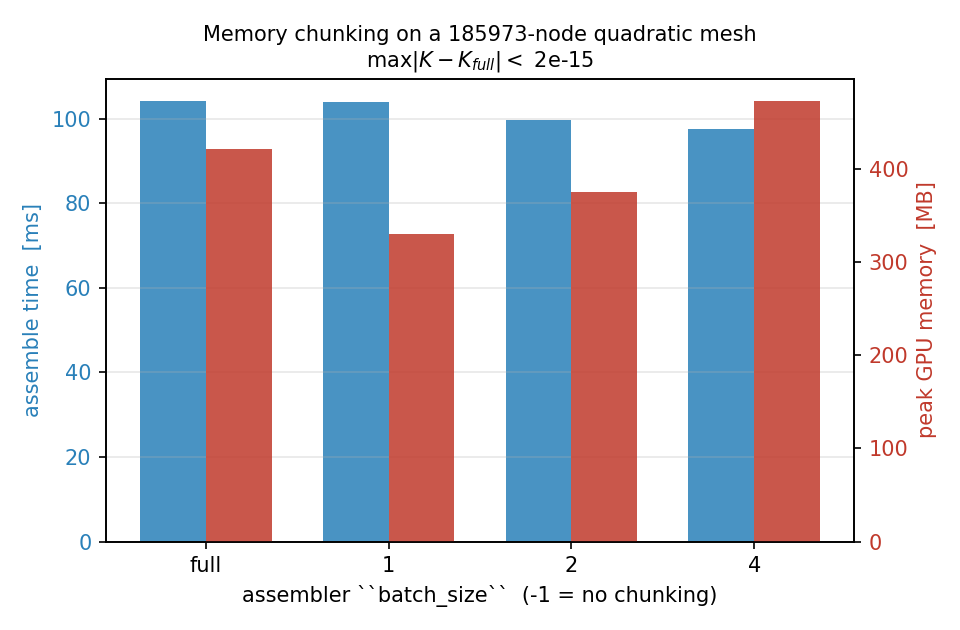
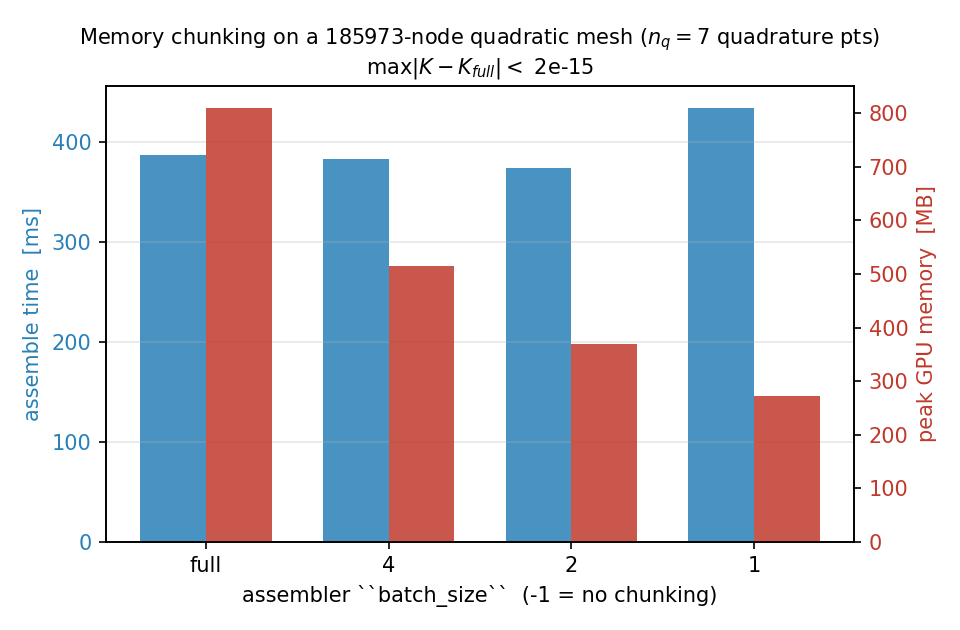
docs(batched): correct memory-chunking figure and batched-RHS solver mechanics
Axis 1 (memory chunking):
- fix fig_memory_chunking to actually exercise the knob: quadrature
  order 5 (n_q=7) so the chunkable integrand dominates, batch_size
  values all < n_q, and drop K_ref from the GPU before measuring peaks
- regenerate memory_chunking.png (peak 810 MB -> 271 MB, a 3x drop)
- explain that batch_size chunks the quadrature dimension, that
  batch_size >= n_q is a no-op, and that the assembled matrix + index
  buffers form a floor it cannot reduce (and scaling the mesh doesn't help)
- note the multi-GPU distributed-assembly path for matrices too large
  for one GPU, pointing at the Distributed FEM gallery

Axis 2 (batched RHS):
- correct the mechanism: SparseMatrix.solve delegates to torch-sla,
  which picks backend/method from matrix properties + device (CPU
  SuperLU, GPU cuDSS Cholesky/LDLT), independent of RHS shape -- not
  "2D RHS auto-routes to LU"
- note that factor-once amortization applies only to direct backends;
  iterative methods loop over columns, and torch-sla does not yet cache
  iterative-solver state
- fix stray "LU" references in the Axis 3 and What's-next prose

diff --git a/docs/scripts/batched_workflows_figures.py b/docs/scripts/batched_workflows_figures.py
@@ -18,6 +18,7 @@ Three figures, all built around the canonical pattern in the chapter
 """
 
 import gc
+import math
 import os
 import time
 import warnings
@@ -205,42 +206,63 @@ def fig_memory_chunking():
 
     print("[fig 3] memory chunking...")
     device = "cuda"
-    # Quadratic triangle, fine mesh -- per-element integrand is now [6, 6, n_q]
-    # which is large enough that chunking gives a visible memory win.
+    # ``batch_size`` chunks the QUADRATURE dimension n_q, so the knob only
+    # bites while batch_size < n_q -- and at the default quadrature order n_q
+    # is tiny (3 for an order-2 triangle), small enough that the per-element
+    # matrix and the COO index buffers dominate the peak. Use a higher
+    # quadrature order so the chunkable integrand
+    # [n_elem, n_q, n_basis, n_basis] is the dominant allocation and the
+    # memory win is visible.
     mesh = Mesh.gen_rectangle(chara_length=0.005, order=2).to(device)
-    asm = LaplaceElementAssembler.from_mesh(mesh)
+    quad_order = 5
 
-    bs_values = [-1, 1, 2, 4]
-    times, peaks = [], []
+    def assemble(bs):
+        return LaplaceElementAssembler.from_mesh(
+            mesh, quadrature_order=quad_order)(batch_size=bs).double()
 
-    # Reference matrix (un-chunked).
+    asm0 = LaplaceElementAssembler.from_mesh(mesh, quadrature_order=quad_order)
+    n_q = asm0.transformation[asm0.element_types[0]].n_quadrature
+
+    # All batch_size values strictly below n_q (batch_size >= n_q is identical
+    # to no chunking), ordered so the memory bars descend left -> right.
+    bs_values = [-1, 4, 2, 1]
+
+    # Reference matrix (un-chunked). Keep only its edata, on the CPU, so a full
+    # second GPU matrix is not resident while we measure the peaks.
     torch.cuda.empty_cache()
-    torch.cuda.reset_peak_memory_stats()
     torch.cuda.synchronize()
-    K_ref = asm(batch_size=-1).double()
-    torch.cuda.synchronize()
+    K_ref = assemble(-1)
+    ref_edata = K_ref.edata.detach().cpu()
+    del K_ref
+    gc.collect()
+    torch.cuda.empty_cache()
 
-    diffs = []
+    times, peaks, diffs = [], [], []
     for bs in bs_values:
         torch.cuda.empty_cache()
         torch.cuda.reset_peak_memory_stats()
         torch.cuda.synchronize()
         t0 = time.perf_counter()
-        K = asm(batch_size=bs).double()
+        K = assemble(bs)
         torch.cuda.synchronize()
         dt = time.perf_counter() - t0
         peak = torch.cuda.max_memory_allocated() / 1e6  # MB
 
-        diff = (K.edata - K_ref.edata).abs().max().item()
+        diff = (K.edata.detach().cpu() - ref_edata).abs().max().item()
         diffs.append(diff)
 
         times.append(dt * 1e3)
         peaks.append(peak)
-        print(f"    batch_size={str(bs):>3}   time={dt*1e3:7.2f}ms   "
-              f"peak={peak:7.1f}MB   max|K - K_ref|={diff:.2e}")
+        n_chunk = 1 if bs == -1 else math.ceil(n_q / bs)
+        print(f"    batch_size={str(bs):>3}  ({n_chunk} chunk(s))  "
+              f"time={dt*1e3:7.2f}ms   peak={peak:7.1f}MB   "
+              f"max|K - K_ref|={diff:.2e}")
+        del K
+        gc.collect()
+        torch.cuda.empty_cache()
 
-    # The first entry is the reference (-1); plot it as a dashed line so the
-    # eye reads "no chunking" as a baseline rather than a data point.
+    # The first entry is the un-chunked reference; the rest are decreasing
+    # chunk sizes, so peak memory drops left -> right while time rises.
     labels = ["full"] + [str(b) for b in bs_values[1:]]
     xs = np.arange(len(labels))
 
@@ -262,7 +284,8 @@ def fig_memory_chunking():
     ax2.set_ylabel("peak GPU memory  [MB]", color=color_mem)
     ax2.tick_params(axis="y", labelcolor=color_mem)
 
-    ax1.set_title(f"Memory chunking on a {mesh.n_points}-node quadratic mesh\n"
+    ax1.set_title(f"Memory chunking on a {mesh.n_points}-node quadratic mesh "
+                  f"($n_q={n_q}$ quadrature pts)\n"
                   f"max$|K - K_{{full}}| <$ {max(diffs):.0e}",
                   fontsize=10)
     ax1.grid(True, axis="y", alpha=0.3)

diff --git a/docs/source/user_guide/batched_workflows.rst b/docs/source/user_guide/batched_workflows.rst
@@ -52,11 +52,12 @@ The result is **bit-identical** (to machine precision) to the
 un-chunked call -- ``batch_size`` is purely a memory knob. Default
 is ``-1`` (no chunking, fastest if memory allows).
 
-The figure below times the same assembly on a quadratic-triangle
-mesh with about :math:`1.9\times10^{5}` nodes on the GPU. The
-chunked variants trade a little extra kernel-launch overhead for a
-proportional drop in peak memory; the difference at the end of each
-bar pair is at most :math:`\sim 2 \times 10^{-15}`, i.e. round-off:
+The figure below assembles the same operator on a quadratic-triangle
+mesh with about :math:`1.9\times10^{5}` nodes on the GPU, at quadrature
+order 5 (:math:`n_q = 7` points per element). Shrinking ``batch_size``
+from the full integrand down to one quadrature point at a time drops
+peak memory from **810 MB to 271 MB** -- a 3x reduction -- at
+essentially no extra time:
 
 .. figure:: ../_static/user_guide/batched_workflows/memory_chunking.png
    :align: center
@@ -64,15 +65,48 @@ bar pair is at most :math:`\sim 2 \times 10^{-15}`, i.e. round-off:
 
    Assembly time (blue) and peak GPU memory (red) versus the
    ``batch_size`` chunk knob on a quadratic triangle mesh
-   (185 973 nodes). Each setting produces a stiffness matrix that
-   differs from the un-chunked reference by less than
-   :math:`2 \times 10^{-15}` in max-norm.
+   (185 973 nodes, :math:`n_q = 7`). Peak memory falls from 810 MB
+   (un-chunked) to 271 MB (one quadrature point per chunk); every
+   setting produces a stiffness matrix that differs from the
+   un-chunked reference by less than :math:`2 \times 10^{-15}` in
+   max-norm.
+
+Two things temper the knob -- and explain why a careless benchmark can
+look flat:
+
+* **It only bites while** ``batch_size`` :math:`< n_q`. Since
+  ``n_batch = ceil(n_q / batch_size)``, any ``batch_size`` at or above
+  the quadrature-point count collapses to a single chunk -- that is, no
+  chunking at all. At the *default* quadrature order an order-2 triangle
+  has only :math:`n_q = 3` points, so there is very little room to
+  chunk; raising the quadrature order (or using high-order / vector
+  elements) grows the transient integrand and gives the knob more to
+  work on -- which is why the figure above uses order 5.
+* **There is a floor it cannot touch.** The assembled matrix values,
+  their ``int64`` row/column index buffers, and the per-element
+  accumulator ``[n_elem, n_basis, n_basis]`` are all proportional to the
+  element count and stay resident regardless of ``batch_size``. Chunking
+  only pays off when the transient integrand
+  ``[n_elem, n_q, n_basis, n_basis]`` is the dominant allocation;
+  scaling up the *mesh* alone does **not** help, because the floor grows
+  with it.
 
 A typical recipe: start with the default; if you OOM, halve
-``batch_size`` until the assembly fits.
+``batch_size`` (down to ``1``) until the assembly fits.
 
 This axis has nothing to do with batching across *problems*. The
 result is one matrix, not a batch of matrices.
+
+.. note::
+
+   ``batch_size`` chunks one assembly on a single device. When the
+   stiffness matrix is too large for one GPU even chunked, TensorMesh
+   also has a **multi-GPU distributed assembly** path -- currently a
+   beta / research-grade feature; see
+   :doc:`../example_gallery/distributed` for the building blocks. A
+   future release will align distributed assembly with the distributed
+   linear solver in ``torch-sla``, closing the loop on truly
+   large-scale DOF counts end-to-end.
 
 
 Axis 2 -- Batched right-hand sides
@@ -80,18 +114,24 @@ Axis 2 -- Batched right-hand sides
 
 When you have one stiffness matrix ``K`` and many load vectors
 ``b_i``, stack the loads into a single ``[n_dof, n_batch]`` tensor
-and let the solver factor ``K`` once. :meth:`tensormesh.sparse.SparseMatrix.solve`
-auto-routes a 2D RHS to a direct LU factorisation: **one
-factorisation, ``n_batch`` back-substitutions**:
+and hand the whole block to ``K.solve`` in one call:
 
 .. code-block:: python
 
    B = torch.stack([b_1, b_2, ..., b_64], dim=1)   # [n_dof, 64]
    X = K.solve(B)                                  # [n_dof, 64]
 
-The speedup over a Python loop of independent solves is dramatic
-on both CPU and GPU, and grows linearly with ``n_batch`` until the
-back-substitution starts to dominate:
+``SparseMatrix.solve`` delegates to ``torch-sla``, which selects the
+backend and method from the **matrix properties and the device** --
+*not* from the shape of the RHS (a 1D and a 2D RHS take the same path).
+For the condensed Poisson operator that means a **direct
+factorisation**: SuperLU (``scipy``, ``method="lu"``) on the CPU, and
+cuDSS on the GPU (``method="cholesky"`` for an SPD matrix, ``"ldlt"``
+for a symmetric-indefinite one). With a direct method, passing a 2D RHS
+lets the backend **factor ``K`` once and back-substitute every
+column** -- which is exactly the win you want here. The speedup over a
+Python loop of independent solves is dramatic on both CPU and GPU, and
+grows with ``n_batch`` until the back-substitution starts to dominate:
 
 .. figure:: ../_static/user_guide/batched_workflows/batched_rhs_scaling.png
    :align: center
@@ -108,6 +148,19 @@ doubles its wall time. The 2D-RHS call factors ``K`` once and
 amortises that cost across every column; on the GPU it stays
 within :math:`\sim 15\%` of the single-RHS time up to
 ``n_batch = 256``.
+
+.. note::
+
+   The factor-once amortisation is a property of the **direct**
+   backends. If an *iterative* method runs instead -- a very large GPU
+   problem routes to native-PyTorch CG, or you pass ``method="cg"`` /
+   ``"bicgstab"`` explicitly -- ``torch-sla`` loops over the columns of
+   a 2D RHS internally, so there is no factorisation to reuse and the
+   only gain over a Python loop is reduced per-call dispatch overhead.
+   ``torch-sla`` does not yet cache iterative-solver state (a
+   preconditioner or Krylov basis reused across right-hand sides); a
+   caching iterative solver is planned for a future release. See
+   :doc:`linear_solvers` for how the backend and method are chosen.
 
 Throughput is the same data the other way around -- problems
 solved per second:
@@ -186,8 +239,8 @@ generator with the batched-RHS pattern from Axis 2:
 
 On a single RTX PRO 6000 the loop above produces 1024 Poisson
 solutions in roughly 34 ms (see the throughput figure above) --
-about :math:`30\,\mu\mathrm{s}` per problem, dominated by the LU
-back-substitution. The fully benchmarked driver, with timing
+about :math:`30\,\mu\mathrm{s}` per problem, dominated by the
+cuDSS triangular back-substitution. The fully benchmarked driver, with timing
 across many ``n_batch`` values, lives in
 ``examples/dataset/poisson/poisson_dataset.py``.
 
@@ -238,7 +291,7 @@ are skipped on a CPU-only machine). On a CUDA host it writes
 What's next
 -----------
 
-* :doc:`linear_solvers` -- the SuperLU auto-routing and the
+* :doc:`linear_solvers` -- the backend / method auto-selection and the
   ``backend`` knobs that affect batched solves.
 * :doc:`differentiability` -- backprop through a batched pipeline.
 * :doc:`time_integration` -- transient problems where the inner